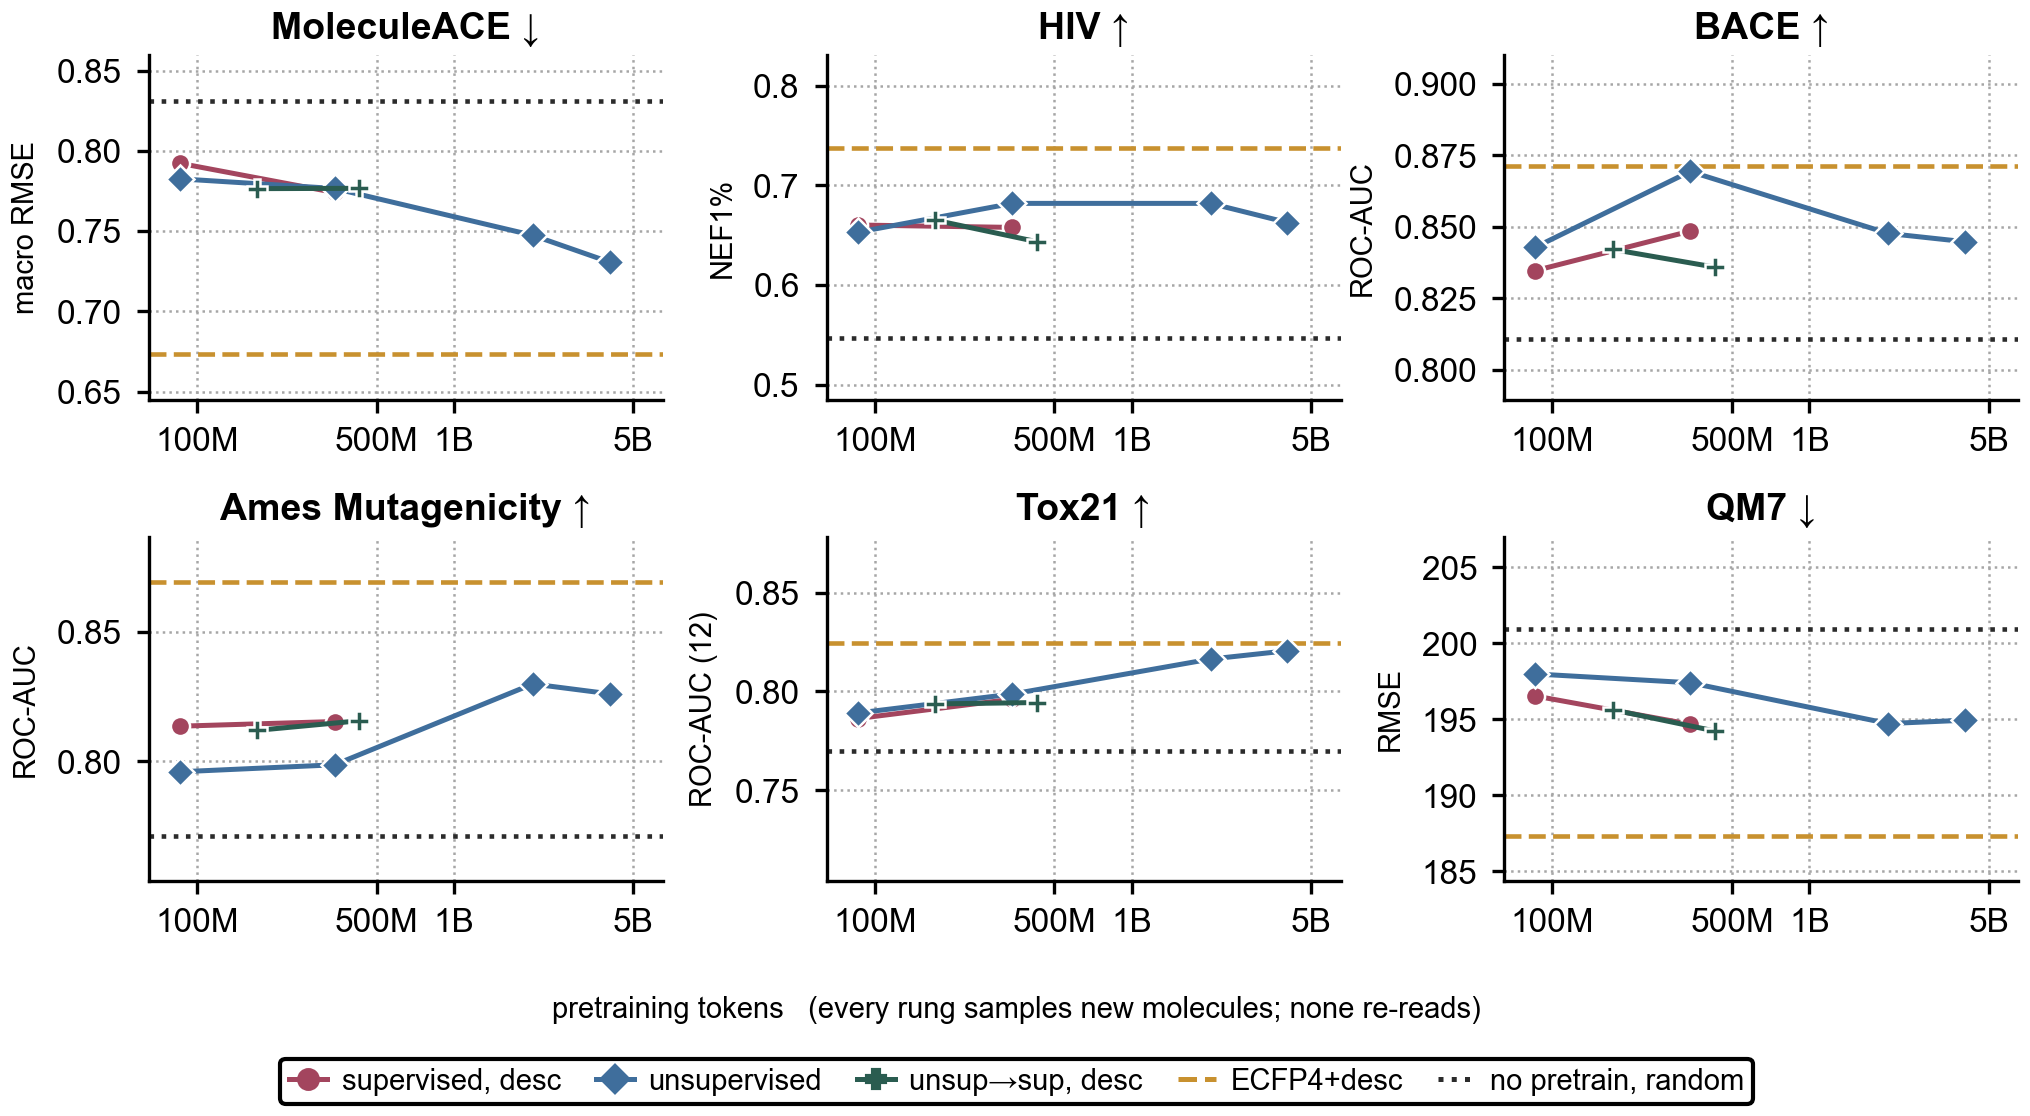
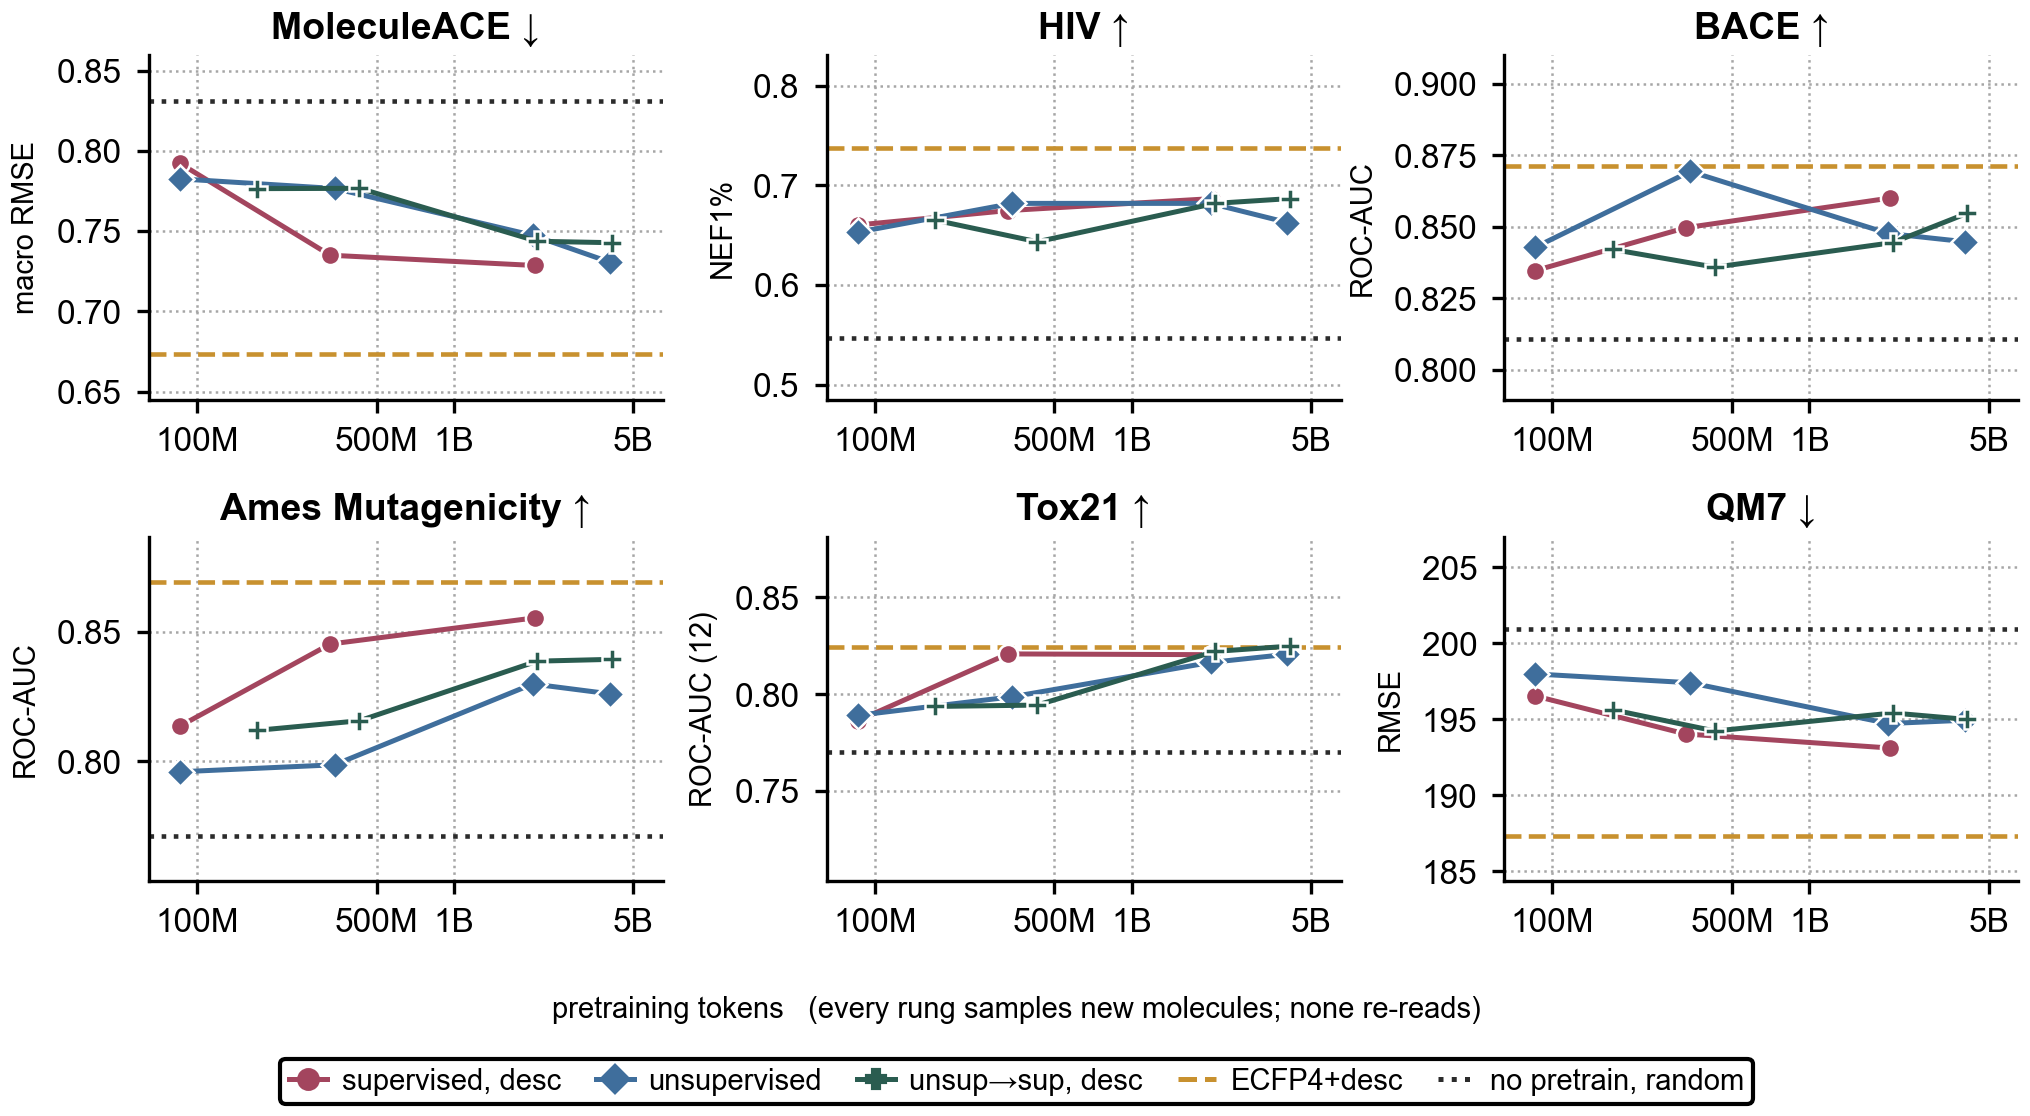
fig_B: the four 124M-corpus rungs are on the plate
skip_dense_8M_c124, skip_dense_50M_c124, u2s_dense_from50M and u2s_dense_from100M finished
evaluation and are drawn. Every pre-existing point is unchanged -- verified by diffing the rebuilt
scaling_ladders.csv against the previous one: 147 (rung, panel) values in common, 0 moved.

ONE POINT PER BUDGET on the supervised line (Leif: "only include skip dense c124 drop the other
one"). skip_dense_8M and skip_dense_8M_c124 are the same 8M forward passes on the 12M and the 124M
corpus, landing at 0.343B and 0.330B tokens -- indistinguishable on a log axis spanning 0.09B-4B.
Sorted by tokens the line joined them and drew the corpus effect as a near-vertical zigzag, worst
on exactly the three panels where that effect is largest. skip_dense_8M is dropped from THIS LINE
only; it remains the mainline supervised 8M arm and the manifest template for every _c124 clone.

The pair is now a caption number rather than a spike. At one fixed budget, changing only the
corpus, the 124M corpus wins on all six panels:
    MoleculeACE -0.0391   Ames +0.0299   Tox21 +0.0247   HIV +0.0169   QM7 -0.64   BACE +0.0012

run_tokens() FIX, without which two of the four rungs were silently absent. A run that finishes
through the top-up loop ends metrics.jsonl with a record of the top-up --
{"step": 7813, "topup_steps": 1, "forward_passes_seen": 2000128, ...} -- carrying no tokens_seen.
Reading the final line alone returned None for a complete 41 KB file, and both u2s rungs vanished
[…]

diff --git a/scripts/six_panel_scaling.py b/scripts/six_panel_scaling.py
@@ -64,8 +64,20 @@ LADDERS = {
     # returns None without a metrics.jsonl, main() prints "SKIP <rung>: no metrics.jsonl" and moves
     # on, and the rung joins the line the moment its data lands. A listed-but-absent rung is
     # announced every run; a rung nobody listed is silent forever.
+    # ONE POINT PER BUDGET (Leif 2026-08-28: "only include skip dense c124 drop the other one").
+    # skip_dense_8M and skip_dense_8M_c124 are the SAME 8M forward passes on the 12M and the 124M
+    # corpus, so they land 0.330B and 0.343B apart on a log axis spanning 0.09B-4B -- effectively
+    # the same x. Sorted by tokens the line joined them, and the corpus difference (up to 0.039
+    # macro-RMSE on MoleculeACE, larger than the whole line's span) was drawn as a near-vertical
+    # zigzag that reads as instability rather than as a result. The c124 rung is the one kept: it
+    # is on the same corpus as the 50M/100M rungs above it, which makes this line parallel in
+    # construction to the unsup line (small corpus low, 124M corpus high).
+    #
+    # skip_dense_8M IS NOT DELETED ANYWHERE ELSE. It remains the mainline supervised 8M arm in
+    # mainline_8M.csv and the manifest template for every _c124 clone; this drops it from ONE
+    # line of ONE figure, and the bridge comparison it anchors is a caption number, not a point.
     "sup_dense":        ("sup_dense",
-                         ["skip_dense_2M", "skip_dense_8M", "skip_dense_8M_c124",
+                         ["skip_dense_2M", "skip_dense_8M_c124",
                           "skip_dense_24M", "skip_dense_96M",
                           "skip_dense_50M_c124", "skip_dense_100M_c124"]),
     "sup_dense_sparse": ("sup_dense_sparse",
@@ -99,18 +111,30 @@ BIG_CORPUS = {"unsup_50M", "unsup_100M",
 
 
 def run_tokens(run):
-    """Last tokens_seen in metrics.jsonl (trainer's own non-padding count), or None."""
+    """Last tokens_seen in metrics.jsonl (trainer's own non-padding count), or None.
+
+    THE LAST LINE IS NOT ALWAYS A TRAINING STEP. A run that finishes through the top-up loop ends
+    with a record of the top-up itself --
+        {"step": 7813, "topup_steps": 1, "forward_passes_seen": 2000128, ...}
+    -- which carries forward_passes_seen but NO tokens_seen. Reading the final line alone then
+    returned None for a complete 41 KB metrics file, and both u2s_dense_from50M and
+    u2s_dense_from100M vanished from fig_B while their data sat on disk. Scan for the last line
+    that actually HAS the field instead of assuming the last line is a step record.
+    """
     m = FD / "climb_v2_phase2" / run / "metrics.jsonl"
     if not m.exists():
         return None
-    last = ""
+    tok = None
     for line in m.open():
-        if line.strip():
-            last = line
-    try:
-        return float(json.loads(last).get("tokens_seen"))
-    except Exception:
-        return None
+        if not line.strip():
+            continue
+        try:
+            v = json.loads(line).get("tokens_seen")
+        except Exception:
+            continue
+        if v is not None:
+            tok = v
+    return None if tok is None else float(tok)
 
 
 def ladder_subdir(all_rungs, subdirs, panel, mixing_cost):
@@ -178,7 +202,14 @@ def main():
         for rung in rungs:
             tok = run_tokens(rung)
             if tok is None:
-                print(f"  SKIP {rung}: no metrics.jsonl")
+                # Say WHICH of the two it is. "no metrics.jsonl" was printed for both, and for a
+                # run whose file is present but unparsed that sends the reader to re-run a job
+                # that already finished.
+                _m = FD / "climb_v2_phase2" / rung / "metrics.jsonl"
+                why = ("no metrics.jsonl" if not _m.exists() else
+                       f"metrics.jsonl present ({_m.stat().st_size:,} bytes) but no tokens_seen "
+                       f"in any record -- NOT a missing run")
+                print(f"  SKIP {rung}: {why}")
                 continue
             if rung in U2S_BASE:
                 base = run_tokens(U2S_BASE[rung]) or 0.0

diff --git a/figures/fig_B.py b/figures/fig_B.py
@@ -7,11 +7,24 @@ What it shows
 Each panel is one benchmark of the canonical six; each coloured line is one pretraining ladder
 (seed-0 rungs only): supervised, dense · unsupervised (MLM) · unsup->sup, dense. X = tokens
 actually processed (trainer's non-padding `tokens_seen`, log scale) — NOT forward passes x a
-constant, and unsup->sup counts its true total (MLM base + 2M-FP SFT stage). The two top
-unsupervised rungs (50M/100M, open markers) are trained on the LARGER RDKit-canonical corpus,
-not the 12M corpus of the lower rungs — same ladder, different corpus at the top. The
-unsupervised MoleculeACE line jumps 24M -> 50M (unsup_48M was never scored there). Reference
-lines: both XGBoost anchors (ECFP dash-dot, ECFP+desc dashed) and the random encoder (dotted).
+constant, and unsup->sup counts its true total (MLM base + 2M-FP SFT stage). Reference lines are
+the ECFP4+desc XGBoost anchor (dashed) and the untrained random encoder (dotted) — ONE anchor,
+not two; plain ECFP was drawn for a while and dropped (see REF_LINES).
+
+THE PLATE IS THE "nodup" CUT, and three things follow from that rather than from this paragraph:
+every rung that re-reads the 12M corpus is dropped entirely, so no point needs a corpus caveat;
+`_big_marker` is never called, so there are NO open markers and no corpus key in the legend; and
+the rungs actually drawn are whatever survives `repeated`, which is a property of the data, not a
+list anyone maintains here. Read the inventory `report()` prints, not a rung list in prose — an
+earlier version of this docstring described a "24M -> 50M jump" on a line whose 24M rung the cut
+had already removed.
+
+Each line therefore carries ONE point per budget. skip_dense_8M and skip_dense_8M_c124 are the
+same 8M forward passes on the 12M and the 124M corpus and land 0.343B vs 0.330B apart — the same
+x for plotting purposes — so joining them drew a real corpus effect as a vertical zigzag. Only
+the _c124 rung is on the line (Leif 2026-08-28); the pair is a caption number, and at that fixed
+budget the 124M corpus wins on all six panels: MoleculeACE -0.0391, Ames +0.0299, Tox21 +0.0247,
+HIV +0.0169, QM7 -0.64, BACE +0.0012.
 
 NO error bars (user decision 2026-08-17: they made every panel unreadable — single clean
 variant, no banded variant). The underlying
